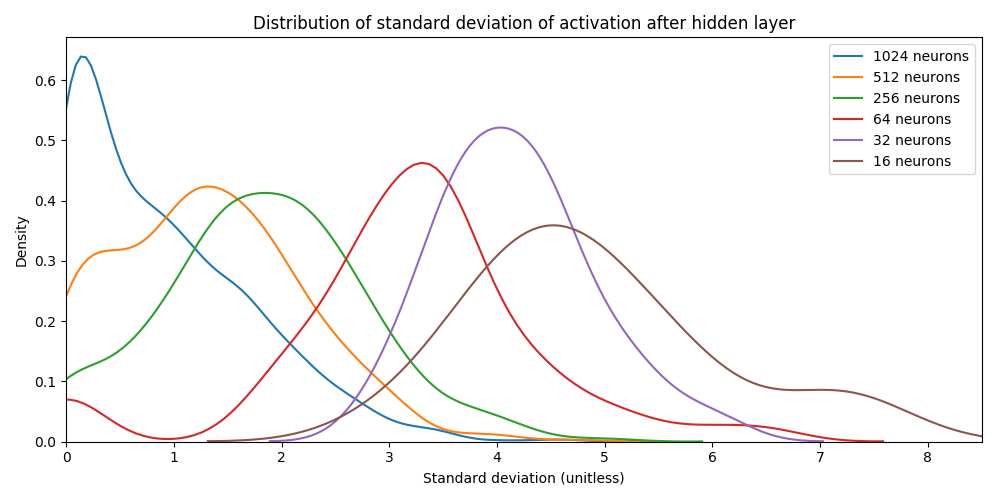
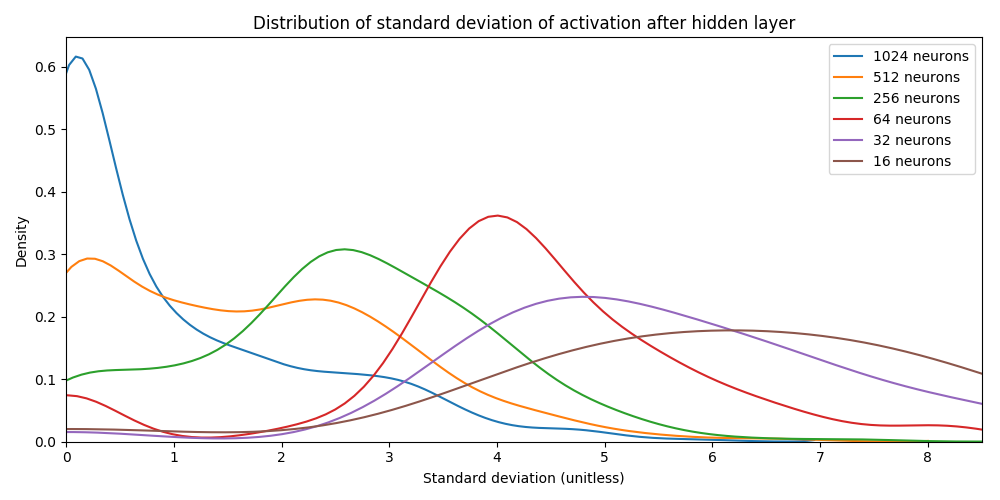
Train the neural nets longer
- Large network did not seem to have converged in the previous
experiments

diff --git a/variance_metric.py b/variance_metric.py
@@ -37,7 +37,7 @@ def train(models):
     criterion = nn.CrossEntropyLoss()
     optimizers = [Adam(model.parameters()) for model in models]
 
-    for e in range(0, 5):
+    for e in range(0, 15):
         print("Epoch %s" % e)
         for i, (images, labels) in enumerate(training_dataloader):
             print(round(i / len(training_dataloader) * 100))
@@ -77,7 +77,7 @@ def plot_distributions(activations):
 def plot_sum_variance(activations):
     sizes = np.array([len(x) for x in activations])
     sums = np.array([x.sum() for x in activations])
-    plt.figure(figsize=(5, 5))
+    plt.figure(figsize=(10, 5))
     plt.plot(sizes, sums)
     plt.title('Sum of variance depending on the size of the layer')
     plt.xlabel('Number of neurons')
@@ -106,11 +106,14 @@ def plot_shapiro(activations):
 
 
 def plot_distributions_arround_sweet(activations):
-    to_plot = [8, 9, 10]
+    t_values = np.array([scipy.stats.shapiro(x)[0] for x in activations])
+    argmax = t_values.argmax()
+    to_plot = [argmax - 1, argmax, argmax + 1]
     plt.figure(figsize=(10, 5))
     for i in reversed(sorted(to_plot)):
         sns.distplot(activations[i], hist=False, label="%s neurons" % len(activations[i]))
     plt.xlim((0, 5))
+    plt.ylim((0, 0.5))
     plt.xlabel('Standard deviation (unitless)')
     plt.ylabel('Density')
     plt.title('Distribution of standard deviation of activation after hidden layer arround the most normal')
@@ -123,7 +126,7 @@ def plot_distributions_arround_sweet(activations):
 def plot_dead_neurons(activations):
     sizes = np.array([len(x) for x in activations])
     deads = np.array([(x == 0).sum() for x in activations])
-    plt.figure(figsize=(5, 5))
+    plt.figure(figsize=(10, 5))
     plt.plot(sizes, deads)
     plt.title('Evolution of the quantity of dead neurons')
     plt.xlabel('Number of neurons')
